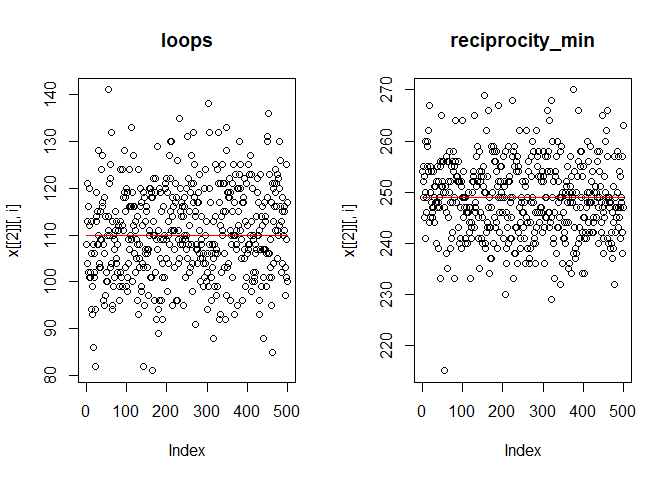
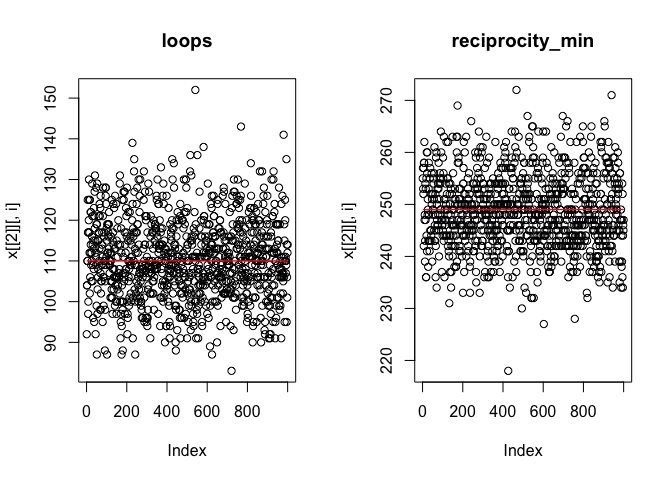
update readme with new function formats (without specifying dep.var)

diff --git a/README.md b/README.md
@@ -57,7 +57,7 @@ library(MoNAn)
 
 # packages for parallel computing
 library(snowfall)
-#> Lade nötiges Paket: snow
+#> Loading required package: snow
 ```
 
 ## The Data
@@ -127,31 +127,33 @@ sex <- createNodeVariable(indSex, nodeSet = "people")
 
 We combine the data objects into the process state, i.e., a MoNAn object
 that stores all information about the data that will be used in the
-estimation later.
+estimation later. Here we also need to specify what will be the outcome
+variable to be modelled in the analysis.
 
 ``` r
-myState <- createProcessState(list(
-  transfers = transfers,
-  
-  people = people,
-  organisations = organisations,
-  
-  sameRegion = sameRegion,
-  region = region,
-  size = size,
-  sex = sex
-))
+myState <- createProcessState(
+  list(
+    transfers = transfers,
+    
+    people = people,
+    organisations = organisations,
+    
+    sameRegion = sameRegion,
+    region = region,
+    size = size,
+    sex = sex
+  ),
+  dependentVariable = "transfers"
+)
 ```
 
-We define the dependent variable, and create a cache (a necessary object
-used in the estimation of the model). In case variables of the
-individuals in the data are included in the state (here: “sex”), they
-need to be explicitly mentioned in the creation of the cache under
-“resourceCovariates”.
+We create a cache (a necessary object used in the estimation of the
+model). In case variables of the individuals in the data are included in
+the state (here: “sex”), they need to be explicitly mentioned in the
+creation of the cache under “resourceCovariates”.
 
 ``` r
-myDependentVariable <- "transfers"
-myCache <- createWeightedCache(myState, myDependentVariable, resourceCovariates = c("sex"))
+myCache <- createWeightedCache(myState, resourceCovariates = c("sex"))
 ```
 
 ### Specifying the model
@@ -168,9 +170,11 @@ myEffects <- createEffectsObject(
     list("reciprocity_min"),
     list("dyadic_covariate", attribute.index = "sameRegion"),
     list("alter_covariate", attribute.index = "size"),
-    list("resource_covar_to_node_covar", attribute.index = "region", resource.attribute.index = "sex"),
+    list("resource_covar_to_node_covar", 
+         attribute.index = "region", resource.attribute.index = "sex"),
     list("loops_resource_covar", resource.attribute.index = "sex")
-  )
+  ),
+  checkProcessState = myState
 )
 ```
 
@@ -185,7 +189,7 @@ use functions from other libraries to estimate a multinomial logit model
 
 ``` r
 # create multinomial statistics object pseudo-likelihood estimation
-myStatisticsFrame <- getMultinomialStatistics(myState, myCache, myEffects, myDependentVariable)
+myStatisticsFrame <- getMultinomialStatistics(myState, myCache, myEffects)
 
 ### additional script to get pseudo-likelihood estimates, requires the dfidx and mlogit package
 # library(dfidx)
@@ -211,10 +215,10 @@ myStatisticsFrame <- getMultinomialStatistics(myState, myCache, myEffects, myDep
 
 The estimation algorithm requires multiple parameters that guide the
 simulation of the chain. Most values are generated by default from the
-dependent variable, the state, and the effects object.
+state and the effects object.
 
 ``` r
-myAlg <- createAlgorithm(myDependentVariable, myState, myEffects, multinomialProposal = FALSE)
+myAlg <- createAlgorithm(myState, myEffects, multinomialProposal = FALSE)
 ```
 
 ### Estimation
@@ -231,7 +235,7 @@ Running the model takes a while (up to 10 minutes for this data with
 parallel computing).
 
 ``` r
-myResDN <- estimateMobilityNetwork(myDependentVariable,
+myResDN <- estimateMobilityNetwork(
   myState, myCache, myEffects, myAlg,
   initialParameters = NULL,
   parallel = T, cpus = 4,
@@ -239,13 +243,85 @@ myResDN <- estimateMobilityNetwork(myDependentVariable,
   returnDeps = T,
   fish = F
 )
+#> Starting phase 1
+#> Starting burn-in with 12614 steps
+#> ........................
+#> Starting phase 2
+#> R Version:  R version 4.3.1 (2023-06-16)
+#> snowfall 1.84-6.2 initialized (using snow 0.4-4): parallel execution on 4 CPUs.
+#> Library MoNAn loaded.
+#> Library MoNAn loaded in cluster.
+#> Starting sub phase 1 
+#> New parameters:
+#> loops 
+#>  2.10018125568698 
+#>  reciprocity_min 
+#>  0.711154312125821 
+#>  dyadic_covariate sameRegion 
+#>  1.39028727272731 
+#>  alter_covariate size 
+#>  0.0326158532570112 
+#>  resource_covar_to_node_covar region sex 
+#>  -0.611985591432725 
+#>  loops_resource_covar sex 
+#>  -0.135659781287971 
+#> Starting sub phase 2 
+#> New parameters:
+#> loops 
+#>  2.45123895704558 
+#>  reciprocity_min 
+#>  0.796199306698466 
+#>  dyadic_covariate sameRegion 
+#>  1.61060075235114 
+#>  alter_covariate size 
+#>  0.0360016160351146 
+#>  resource_covar_to_node_covar region sex 
+#>  -0.64605587739959 
+#>  loops_resource_covar sex 
+#>  -0.282004106087904 
+#> Starting sub phase 3 
+#> New parameters:
+#> loops 
+#>  2.55867994618009 
+#>  reciprocity_min 
+#>  0.814759851123527 
+#>  dyadic_covariate sameRegion 
+#>  1.66551652775221 
+#>  alter_covariate size 
+#>  0.0363815197249704 
+#>  resource_covar_to_node_covar region sex 
+#>  -0.641590519619288 
+#>  loops_resource_covar sex 
+#>  -0.351102494734574 
+#> Starting sub phase 4 
+#> New parameters:
+#> loops 
+#>  2.57960335970208 
+#>  reciprocity_min 
+#>  0.810872452239844 
+#>  dyadic_covariate sameRegion 
+#>  1.67818736534159 
+#>  alter_covariate size 
+#>  0.0367085926445034 
+#>  resource_covar_to_node_covar region sex 
+#>  -0.64372927081116 
+#>  loops_resource_covar sex 
+#>  -0.368845200920493
+#> 
+#> Stopping cluster
+#> Starting phase 3
+#> snowfall 1.84-6.2 initialized (using snow 0.4-4): parallel execution on 4 CPUs.
+#> Library MoNAn loaded.
+#> Library MoNAn loaded in cluster.
+#> 
+#> Stopping cluster
 ```
 
 In case a pseudo-likelihood estimates have been obtained previously,
 this can be specified by
 
 ``` r
-myResDN <- estimateMobilityNetwork(myDependentVariable,
+myResDN <- estimateMobilityNetwork(
   myState, myCache, myEffects, myAlg,
   initialParameters = initEst,
   parallel = T, cpus = 4,
@@ -261,7 +337,7 @@ estimates), another run is necessary.
 
 ``` r
 max(abs(myResDN$convergenceStatistics))
-#> [1] 0.06683086
+#> [1] 0.1001497
 ```
 
 If convergence is too high, update algorithm, re-run estimation with
@@ -270,10 +346,10 @@ previous results as starting values and check convergence:
 ``` r
 # estimate mobility network model again based on previous results to improve convergence
 # with an adjusted algorithm
-myAlg <- createAlgorithm(myDependentVariable, myState, myEffects, multinomialProposal = TRUE, 
+myAlg <- createAlgorithm(myState, myEffects, multinomialProposal = TRUE, 
                          initialIterationsN2 = 500, nsubN2 = 1, initGain = 0.02, iterationsN3 = 1000)
 
-myResDN <- estimateMobilityNetwork(myDependentVariable,
+myResDN <- estimateMobilityNetwork(
   myState, myCache, myEffects, myAlg,
   prevAns = myResDN,
   parallel = T, cpus = 4,
@@ -281,12 +357,39 @@ myResDN <- estimateMobilityNetwork(myDependentVariable,
   returnDeps = T,
   fish = F
 )
+#> skipping phase 1 and taking values from prevAns
+#> Starting phase 2
+#> snowfall 1.84-6.2 initialized (using snow 0.4-4): parallel execution on 4 CPUs.
+#> Library MoNAn loaded.
+#> Library MoNAn loaded in cluster.
+#> Starting sub phase 1 
+#> New parameters:
+#> loops 
+#>  2.5877161081692 
+#>  reciprocity_min 
+#>  0.834709529184143 
+#>  dyadic_covariate sameRegion 
+#>  1.69913625836648 
+#>  alter_covariate size 
+#>  0.0384418811505895 
+#>  resource_covar_to_node_covar region sex 
+#>  -0.653056017898689 
+#>  loops_resource_covar sex 
+#>  -0.365296469392939
+#> 
+#> Stopping cluster
+#> Starting phase 3
+#> snowfall 1.84-6.2 initialized (using snow 0.4-4): parallel execution on 4 CPUs.
+#> Library MoNAn loaded.
+#> Library MoNAn loaded in cluster.
+#> 
+#> Stopping cluster
 ```
 
 ``` r
 # check convergence
 max(abs(myResDN$convergenceStatistics))
-#> [1] 0.06683086
+#> [1] 0.06793414
 ```
 
 In case convergence is still poor, updating the algorithm might be
@@ -298,13 +401,20 @@ convergence ratio. All values in the final column should be below 0.1
 ``` r
 myResDN
 #> Results
-#>                                   Effects  Estimates StandardErrors Convergence
-#> 1                                   loops  2.5760497     0.18642343  0.04545977
-#> 2                         reciprocity_min  0.8092251     0.17865099 -0.06683086
-#> 3             dyadic_covariate sameRegion  1.6825812     0.11110475 -0.06305877
-#> 4                    alter_covariate size  0.0372752     0.02508984 -0.03625389
-#> 5 resource_covar_to_node_covar region sex -0.6416385     0.17817701 -0.01628262
-#> 6                loops_resource_covar sex -0.3528518     0.22986116  0.04615207
+#>                                   Effects   Estimates StandardErrors
+#> 1                                   loops  2.58771611     0.18171098
+#> 2                         reciprocity_min  0.83470953     0.17511206
+#> 3             dyadic_covariate sameRegion  1.69913626     0.11039838
+#> 4                    alter_covariate size  0.03844188     0.02350032
+#> 5 resource_covar_to_node_covar region sex -0.65305602     0.17143215
+#> 6                loops_resource_covar sex -0.36529647     0.21351668
+#>    Convergence
+#> 1  0.049667210
+#> 2 -0.057224835
+#> 3 -0.067934144
+#> 4  0.009264238
+#> 5 -0.062830998
+#> 6  0.064829646
 ```
 
 ## Diagnostics of the estimated model
@@ -317,8 +427,8 @@ correlated. Here lower values are better. Values above 0.5 are very
 problematic and indicate that a higher thinning is needed.
 
 ``` r
-autoCorrelationTest(myDependentVariable, myResDN)
-#> [1] 0.09530652
+autoCorrelationTest(myResDN)
+#> [1] 0.2145231
 ```
 
 The output of extractTraces indicates the correlation of statistics
@@ -327,7 +437,7 @@ data point randomly scattered around the target line, as shown below. If
 patterns in the traces are discernible, a higher thinning is needed.
 
 ``` r
-traces <- extractTraces(myDependentVariable, myResDN, myEffects)
+traces <- extractTraces(myResDN, myEffects)
 
 par(mfrow = c(1,2))
 plot(traces)
@@ -349,11 +459,11 @@ myEffects2 <- createEffectsObject(
   )
 )
 
-test_ME.2 <- scoreTest(myDependentVariable, myResDN, myEffects2)
+test_ME.2 <- scoreTest(myResDN, myEffects2)
 test_ME.2
 #> Results
 #>            Effects pValuesParametric pValuesNonParametric
-#> 1 transitivity_min      2.098177e-08                    0
+#> 1 transitivity_min      1.543609e-08                    0
 #> 
 #>  Parametric p-values: small = more significant 
 #>  Non-parametric p-values: further away from 0.5 = more significant
@@ -390,7 +500,7 @@ mobility networks based on the data and the specified effects and
 parameters.
 
 ``` r
-mySimDN <- simulateMobilityNetworks(myDependentVariable,
+mySimDN <- simulateMobilityNetworks(
   myState,
   myCache,
   myEffects,
